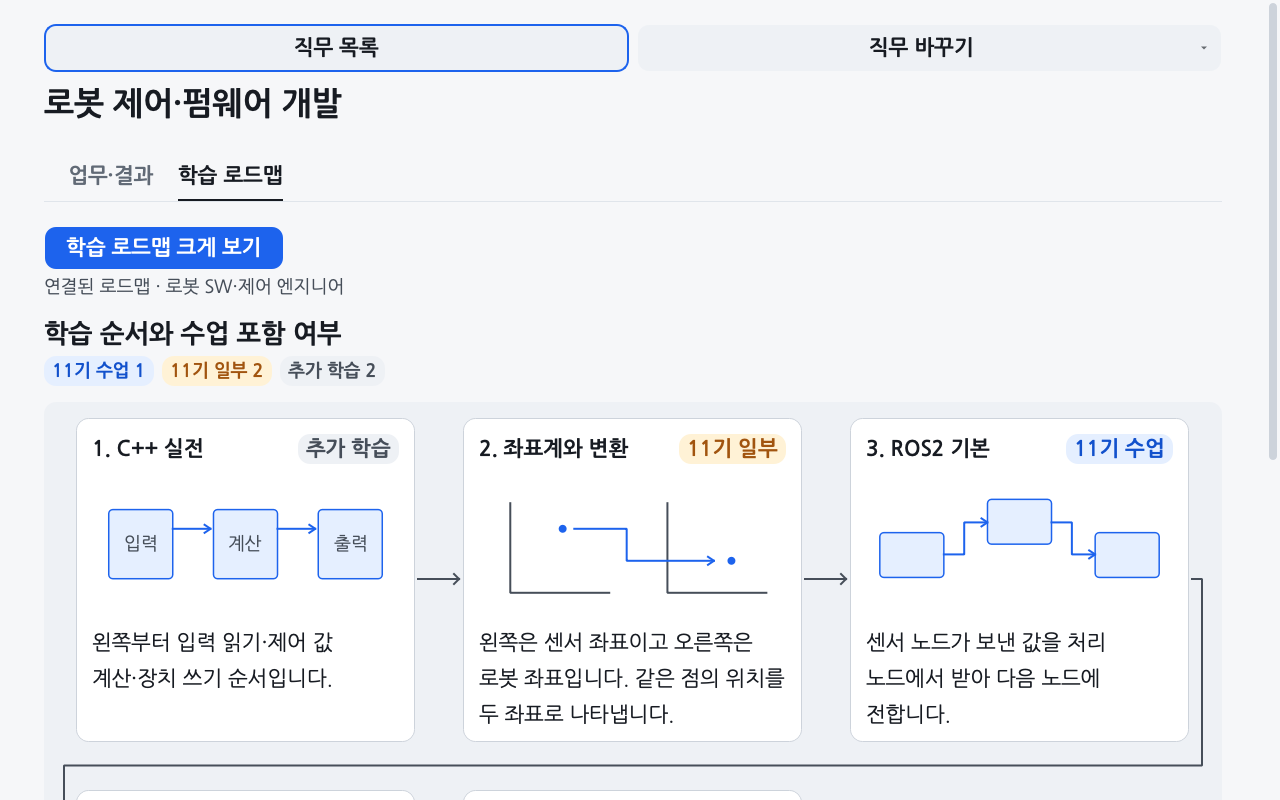
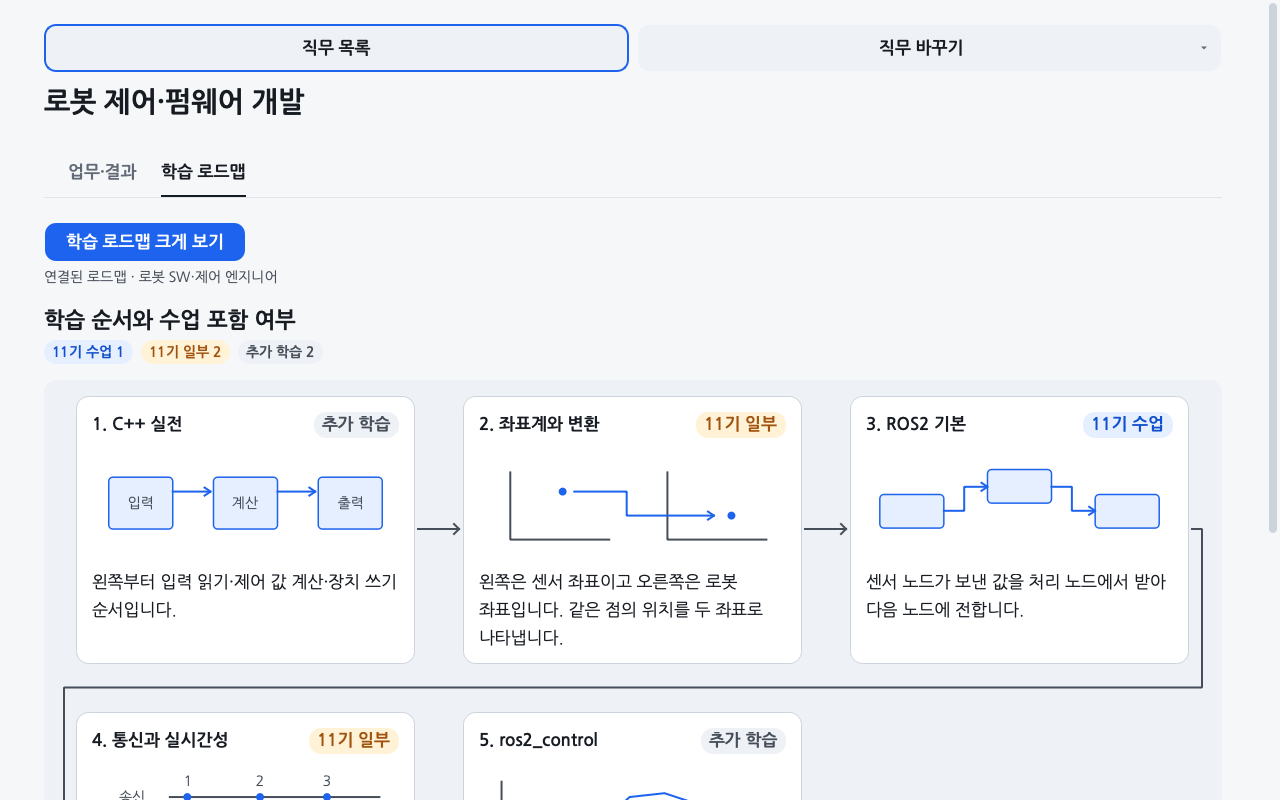
fix(ui): 학습 단계와 수업 표시의 글자 정렬 통일

diff --git a/gui/career_learning_path.py b/gui/career_learning_path.py
@@ -259,9 +259,8 @@ class _Step(QWidget):
         label = node["label"]
         kind, description = EXAMPLES.get(label, ("pipeline", f"{label}의 입력과 처리 결과를 연결해 확인합니다."))
         self.title = kit.para(f"{number}. {label}", "body", bold=True)
-        tones = {"taught": "accent", "partial": "warning", "extra": "", "unverified": ""}
-        self.status = kit.badge(COURSE_LABELS[node["course_status"]], tones[node["course_status"]])
-        kit.typed(self.status, "body", True)
+        self.status = kit.para(COURSE_LABELS[node["course_status"]], "body", bold=True)
+        self.status.setObjectName("career_step_status")
         self.status.setToolTip({
             "taught": "ROKEY 11기 정규 교육과정에 포함된 내용입니다.",
             "partial": "ROKEY 11기 수업에서는 이 주제의 일부만 다룹니다. 나머지는 별도 학습이 필요합니다.",
@@ -273,7 +272,6 @@ class _Step(QWidget):
         for child in (self.title, self.status, self.caption):
             child.setParent(self)
             child.setAlignment(Qt.AlignmentFlag.AlignTop | Qt.AlignmentFlag.AlignLeft)
-        self.status.setAlignment(Qt.AlignmentFlag.AlignCenter)
         self._align_header()
         self.example = _Example(kind, f"{label}. {description}", self)
         self.setProperty("reading_anchor", True)
@@ -289,10 +287,14 @@ class _Step(QWidget):
         return title_width, status_width, header, figure, caption_y
 
     def _align_header(self):
-        self.status.ensurePolished()
-        text_height = math.ceil(QFontMetricsF(theme.font("body", True)).height())
-        offset = max(0, (self.status.sizeHint().height() - text_height) // 2)
-        self.title.setContentsMargins(0, offset, 0, 0)
+        # 같은 Para의 첫 줄과 위 여백을 사용해 플랫폼별 일반 라벨의 세로 정렬 차이를 없앰.
+        self.title.setContentsMargins(0, 4, 0, 4)
+        self.status.setContentsMargins(8, 4, 8, 4)
+        background, ink = {"taught": ("selection", "selection_ink"),
+                           "partial": ("retry_weak", "retry")}.get(
+                               self.node["course_status"], ("surface_alt", "muted"))
+        self.status.setStyleSheet(f"QLabel#career_step_status {{ background: {theme.color(background)}; "
+                                 f"color: {theme.color(ink)}; border-radius: 12px; }}")
 
     def heightForWidth(self, width):
         *_, y = self._plan(width)
@@ -308,7 +310,7 @@ class _Step(QWidget):
     def _place(self):
         title_w, status_w, header, figure, caption_y = self._plan(self.width())
         self.title.setGeometry(16, 16, title_w, header)
-        self.status.setGeometry(self.width() - 16 - status_w, 16, status_w, self.status.sizeHint().height())
+        self.status.setGeometry(self.width() - 16 - status_w, 16, status_w, self.status.heightForWidth(status_w))
         self.example.setGeometry(16, 16 + header + theme.GAP["title_description"], max(1, self.width() - 32), figure)
         self.caption.setGeometry(16, caption_y, max(1, self.width() - 32), self.height() - caption_y - 16)
 

diff --git a/tests/test_gui_design_system.py b/tests/test_gui_design_system.py
@@ -29,7 +29,7 @@ class DesignSystemTest(test_gui_hub.HubTest):
         step.status.setText("같은 글자")
         path.show()
 
-        def first_line_center(widget, token):
+        def first_line_bounds(widget, token):
             image = widget.grab().toImage()
             target = theme.qcolor(token)
             rows = []
@@ -45,17 +45,26 @@ class DesignSystemTest(test_gui_hub.HubTest):
                         break
                     rows.append(y)
             self.assertTrue(rows)
-            return widget.y() + (rows[0] + rows[-1]) / (2 * image.devicePixelRatio())
+            return tuple(widget.y() * image.devicePixelRatio() + row for row in (rows[0], rows[-1]))
 
         for mode in ("light", "dark"):
-            for text in ("normal", "larger", "normal"):
+            for cycle, text in enumerate(("normal", "larger", "normal")):
                 theme.set_mode(mode)
                 theme.set_text(text)
                 kit.refont(path)
                 path.resize(656, path.heightForWidth(656))
                 guikit.pump()
-                self.assertLessEqual(abs(first_line_center(step.title, "ink") -
-                                         first_line_center(step.status, "muted")), 1)
+                destination = os.environ.get("STUDY_UI_ARTIFACT_DIR")
+                if destination:
+                    target = Path(destination)
+                    target.mkdir(parents=True, exist_ok=True)
+                    self.assertTrue(step.grab().save(str(target / f"course-badge-{mode}-{cycle}-{text}.png")))
+                title_bounds = first_line_bounds(step.title, "ink")
+                status_bounds = first_line_bounds(step.status, "muted")
+                for title_edge, status_edge in zip(title_bounds, status_bounds):
+                    self.assertLessEqual(abs(title_edge - status_edge), 1, (mode, text, title_bounds, status_bounds))
+                self.assertGreaterEqual(step.title.height(), step.title.heightForWidth(step.title.width()))
+                self.assertGreaterEqual(step.status.height(), step.status.heightForWidth(step.status.width()))
 
     def test_settings_reuse_actions_across_subject_and_career_overviews(self):
         win = self.boot()

diff --git a/tools/check_release.py b/tools/check_release.py
@@ -13,6 +13,7 @@ ROOT = Path(__file__).resolve().parents[1]
 sys.path.insert(0, str(ROOT))
 
 CASES = (
+    "tests.test_gui_design_system.DesignSystemTest.test_course_badge_matches_title_text_pixels_in_both_themes",
     "tests.test_gui_design_system.DesignSystemTest.test_settings_reuse_actions_across_subject_and_career_overviews",
     "tests.test_gui_design_system.DesignSystemTest.test_submission_actions_fit_without_losing_callbacks_or_visibility",
     "tests.test_gui_career_recommend.CareerRecommendGuiTest.test_small_window_large_text_two_themes_and_detail_round_trip",

diff --git a/docs/career/README.md b/docs/career/README.md
@@ -32,7 +32,7 @@
 
 [학습 로드맵] 탭에서는 주제별 그림과 ROKEY 11기 수업 범위를 확인합니다. 단계 번호를 따라 읽고 [학습 로드맵 크게 보기]를 눌러 전체 지도를 여세요. [+]로 글씨를 키운 뒤 그림을 드래그해 다음 단계를 따라갈 수 있습니다. [폭에 맞추기]를 누르면 지도의 가로 전체가 다시 보입니다. [창 크기 복원]을 누르면 원하는 너비와 높이로 조절할 수 있습니다.
 
-각 단계의 **11기 수업·11기 일부·추가 학습** 표시로 수업에 포함되는지 구분합니다. 표시 위에 마우스를 올리면 뜻이 나옵니다. 위쪽 숫자는 해당 표시가 붙은 단계 수이며, 본인이 끝낸 진도가 아닙니다.
+각 단계의 **11기 수업·11기 일부·추가 학습·확인 대기** 표시로 수업에 포함되는지 구분합니다. 아직 대조하지 못한 주제에는 [확인 대기]가 붙습니다. 표시 위에 마우스를 올리면 뜻이 나옵니다. 위쪽 숫자는 해당 표시가 붙은 단계 수이며, 본인이 끝낸 진도가 아닙니다.
 
 로드맵에서 관련 영상을 고르면 매거진에서 해당 표지를 바로 찾을 수 있습니다.
 
